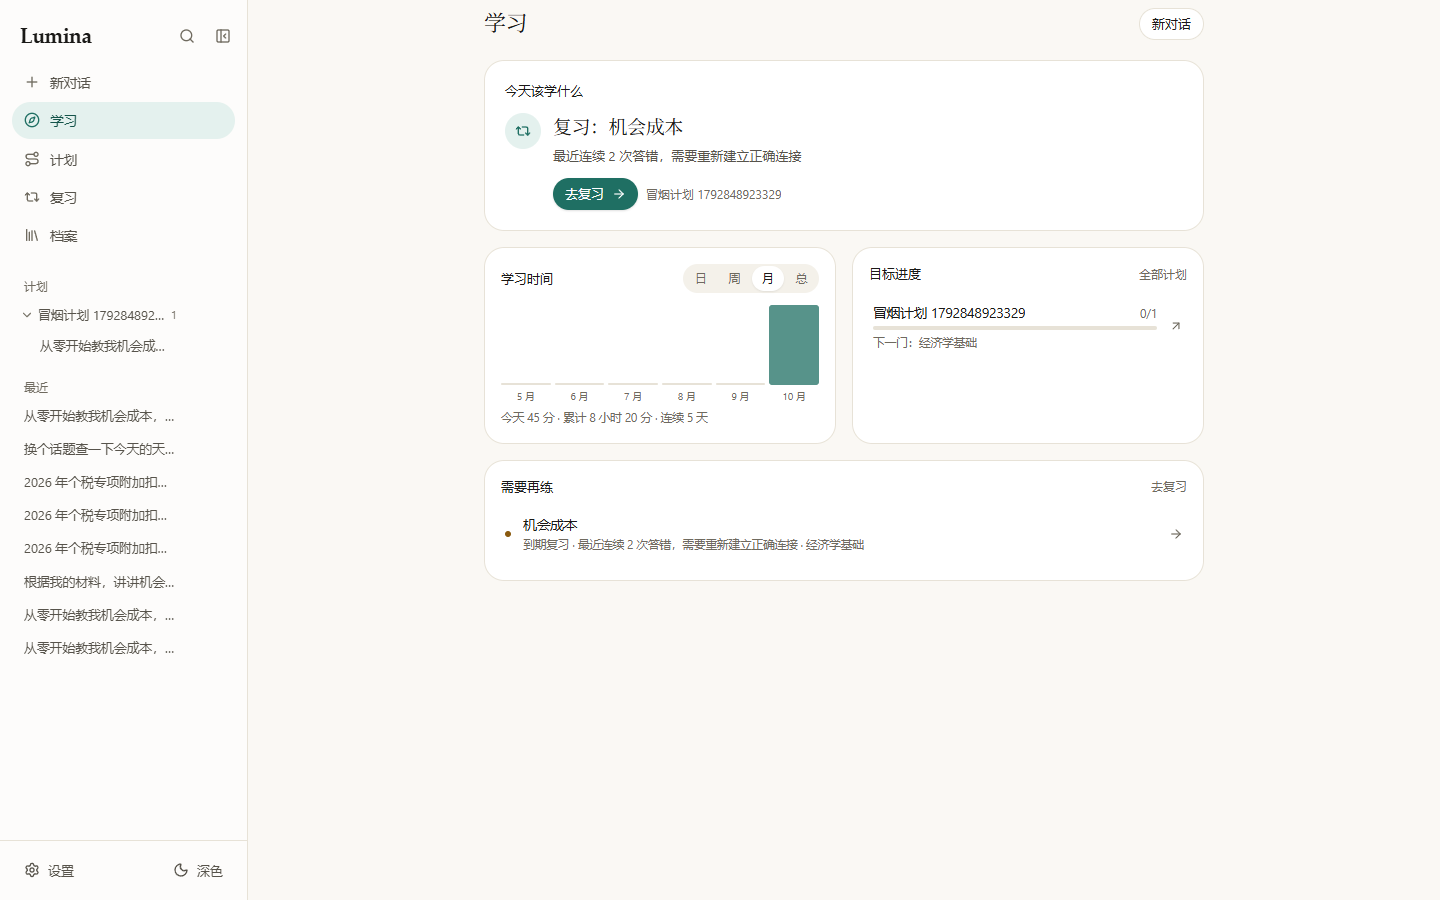
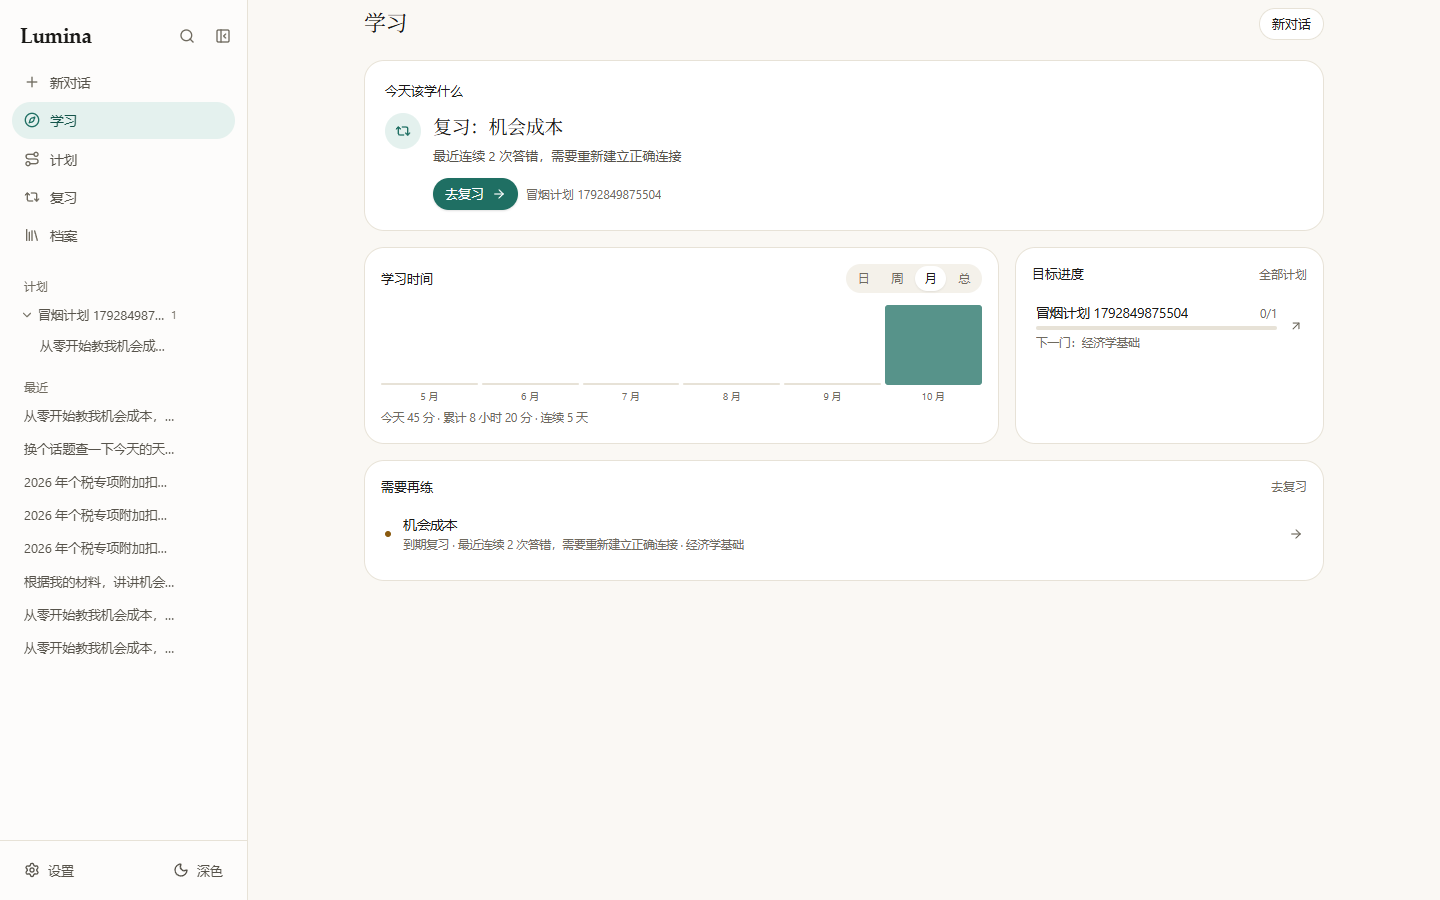
fix(学习页): 宽屏内容区放宽到 1024，学习时间占两列
- 容器 max-w-3xl（768）→ max-w-5xl（1024）：1440 宽下内容区 720 → 960，
  不再两边一大片空白
- 宽屏（xl）改三列：今天该学什么 / 需要再练占整行，
  学习时间占两列（635px，14 根柱子有横向空间），目标进度占一列（309px）
- lg 仍两列、390 宽单列；1920 下内容区停在 1024，不会无限拉宽
- 首屏仍然一屏（1440×900 文档高 900），无横向滚动

验证：tsc 0；build 通过（BUILD_ID qNCR2zscF8Ph6Pkr7I-5e）并重启 3210；
浏览器总览 109/109（新增：宽屏内容区 ≥ 900px、学习时间比目标进度宽）；
布局专项 16/16（1440/1920/1024/390 四档几何、柱子切换、窄屏无溢出）；
冒烟 83/83；设置专项 45/45；单元 190/190

diff --git a/src/app/page.tsx b/src/app/page.tsx
@@ -72,7 +72,7 @@ export default function StudyPage() {
   const weakReviews = data.weak.filter((w) => w.kind === "review").length;
 
   return (
-    <div className="mx-auto w-full max-w-3xl px-4 pb-16 pt-2 md:px-6">
+    <div className="mx-auto w-full max-w-5xl px-4 pb-16 pt-2 md:px-6 xl:px-8">
       <PageHeader
         title="学习"
         action={
@@ -95,9 +95,9 @@ export default function StudyPage() {
         </div>
       ) : null}
 
-      <div className="grid grid-cols-1 gap-4 lg:grid-cols-2">
+      <div className="grid grid-cols-1 gap-4 lg:grid-cols-2 xl:grid-cols-3">
         {/* 今天该学什么：整行，作为"现在该干什么"的主卡片 */}
-        <section className="rounded-2xl border border-line bg-panel p-5 lg:col-span-2">
+        <section className="rounded-2xl border border-line bg-panel p-5 lg:col-span-2 xl:col-span-3">
           <h2 className="mb-3 text-[13px] font-medium text-ink">今天该学什么</h2>
           <div className="flex items-start gap-3">
             <TodayIcon kind={today.kind} />
@@ -122,10 +122,13 @@ export default function StudyPage() {
           </div>
         </section>
 
-        <StudyTimeChart time={data.time} />
+        {/* 学习时间：宽屏占两列，图表有足够横向空间 */}
+        <div className="h-full lg:col-span-1 xl:col-span-2">
+          <StudyTimeChart time={data.time} />
+        </div>
 
         {/* 目标进度 */}
-        <section className="rounded-2xl border border-line bg-panel p-4">
+        <section className="rounded-2xl border border-line bg-panel p-4 lg:col-span-1 xl:col-span-1">
           <div className="flex items-center justify-between gap-3">
             <h2 className="text-[13px] font-medium text-ink">目标进度</h2>
             <Link href="/plan" className="text-[12px] text-ink3 transition-colors hover:text-ink2">
@@ -174,7 +177,7 @@ export default function StudyPage() {
         </section>
 
         {/* 需要再练：整行 */}
-        <section className="rounded-2xl border border-line bg-panel p-4 lg:col-span-2">
+        <section className="rounded-2xl border border-line bg-panel p-4 lg:col-span-2 xl:col-span-3">
           <div className="flex items-center justify-between gap-3">
             <h2 className="text-[13px] font-medium text-ink">需要再练</h2>
             {weakReviews ? (

diff --git a/docs/AUDIT_2026-10-24.md b/docs/AUDIT_2026-10-24.md
@@ -1145,3 +1145,37 @@ node scripts/audit/repro.cjs
 | 单元/集成 | **190/190** |
 | 实测几何 | 1440×900：文档高 900；今天该学什么 720×171；学习时间 / 目标进度各 352×197 同一行；需要再练 720×102；390 宽：四块同宽单列、无横向滚动 |
 | 截图 | `study-workbench.png`、`study-workbench-full.png`、`study-workbench-mobile.png`、`study-time-month.png`、`study-time-total.png` |
+
+---
+
+## 25. 宽屏内容区放宽：768 → 1024，学习时间占两列
+
+反馈："宽屏显示区域太窄了。"
+
+### 25.1 改了什么
+
+1. 学习页容器从 `max-w-3xl`（768）放宽到 `max-w-5xl`（1024），1440 宽下内容区从 720 变 960
+2. 宽屏改三列栅格（`xl:grid-cols-3`）：今天该学什么 / 需要再练各占 3 列整行；学习时间占 2 列（635px，图表有横向空间），目标进度占 1 列（309px）
+3. 1024 宽（lg）以下仍两列，390 宽单列，均无横向滚动
+
+### 25.2 实测几何
+
+| 视口 | 内容区 | 今天该学什么 | 学习时间 | 目标进度 | 需要再练 | 文档高 |
+|---|---|---|---|---|---|---|
+| 1440×900 | 1024 | 960×171 | 635×197 | 309×197 | 960×102 | 900 |
+| 1920×1000 | 1024 | 960×171 | 635×197 | 309×197 | 960×102 | 1000 |
+| 1024×800 | 776 | 728×171 | 356×197 | 356×197 | 728×102 | 800 |
+| 390×844 | 390 | 358×171 | 358×197 | 358×116 | 358×121 | 912 |
+
+### 25.3 验证
+
+| 项目 | 结果 |
+|---|---|
+| `tsc --noEmit` | 0 错误 |
+| `next build` | 通过（`BUILD_ID qNCR2zscF8Ph6Pkr7I-5e`），3210 已重启，health 200 |
+| 浏览器总览 | **109/109**（新增：宽屏内容区 ≥ 900px、学习时间比目标进度宽） |
+| 布局专项（临时库） | **16/16**：内容区宽度、并排与整行、空态高度、首屏高度、日/周/月柱子、总视图、1920 下内容区仍受控、窄屏单列无溢出、无控制台错误 |
+| API 冒烟 | **83/83** |
+| 设置专项 | **45/45** |
+| 单元/集成 | **190/190** |
+| 截图 | `study-workbench.png`、`study-workbench-full.png`、`study-workbench-1920.png`、`study-workbench-mobile.png`、`study-time-month.png`、`study-time-total.png` |
